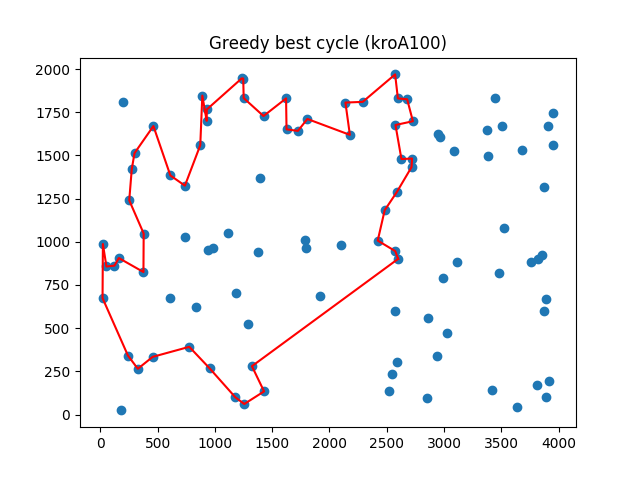
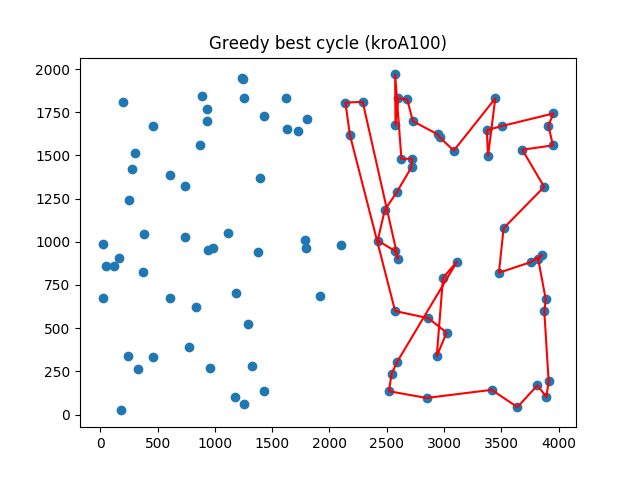
Fix confused greedy with nearest neighbor

diff --git a/aem/heuristics/greedy.py b/aem/heuristics/greedy.py
@@ -7,7 +7,21 @@ class Greedy(Heuristic):
 
     def build_cycle(self, start_vertex=0) -> list:
         cycle = [start_vertex]
+        next_vertex = self.graph.get_closest_unvisited_neighbor_idx(from_vertex=cycle[-1], visited=cycle)
+        cycle.append(next_vertex)
         while len(cycle) < 50:
-            next_closest = self.graph.get_closest_unvisited_neighbor_idx(from_vertex=cycle[-1], visited=cycle)
-            cycle.append(next_closest)
+            # for each vertex find two visited that are closest and compute cost
+            min_cost = float('inf')
+            min_cost_vertex_idx = None
+            for i in range(self.graph.no_of_vertices()):
+                if i not in cycle:
+                    first_closest = self.graph.get_closest_visited_idx(from_vertex=i, visited=cycle)
+                    tmp_cycle = [i for i in cycle if i != first_closest]
+                    second_closest = self.graph.get_closest_visited_idx(from_vertex=i, visited=tmp_cycle)
+
+                    insertion_cost = self.graph.cost(first_closest, i) + self.graph.cost(second_closest, i)
+                    if insertion_cost < min_cost:
+                        min_cost = insertion_cost
+                        min_cost_vertex_idx = i
+            cycle.append(min_cost_vertex_idx)
         return cycle

diff --git a/aem/shared/graph.py b/aem/shared/graph.py
@@ -20,6 +20,10 @@ class Graph:
         closest_idx = valid_indices[self.adjacency_matrix[from_vertex, :][valid_indices].argmin()]
         return closest_idx
 
+    def get_closest_visited_idx(self, from_vertex, visited):
+        closest_idx = visited[self.adjacency_matrix[from_vertex, :][visited].argmin()]
+        return closest_idx
+
     def no_of_vertices(self) -> int:
         return self.adjacency_matrix.shape[0]
 
@@ -30,3 +34,6 @@ class Graph:
             v2 = cycle[(i+1) % len(cycle)]
             cycle_length += self.adjacency_matrix[v1, v2]
         return cycle_length
+
+    def cost(self, from_vertex, to_vertex):
+        return self.adjacency_matrix[from_vertex, to_vertex]

diff --git a/main.py b/main.py
@@ -1,4 +1,5 @@
 from aem.utils.tsp_reader import TSPReader
+from aem.heuristics.nearest_neighbor import NearestNeighbor
 from aem.heuristics.greedy import Greedy
 from aem.utils.plot_util import PlotUtil
 
@@ -10,7 +11,7 @@ instances = [
 for instance in instances:
     print(f"Working on {instance}")
     graph, coords = TSPReader().read_graph_with_coords(instance)
-    methods = [Greedy(graph)]
+    methods = [NearestNeighbor(graph), Greedy(graph)]
     for method in methods:
         result = method.run()
         result.print()

diff --git a/aem/heuristics/nearest_neighbor.py b/aem/heuristics/nearest_neighbor.py
@@ -1,0 +1,13 @@
+from aem.heuristics.heuristic import Heuristic
+
+
+class NearestNeighbor(Heuristic):
+    def __init__(self, graph):
+        super().__init__(graph)
+
+    def build_cycle(self, start_vertex=0) -> list:
+        cycle = [start_vertex]
+        while len(cycle) < 50:
+            next_closest = self.graph.get_closest_unvisited_neighbor_idx(from_vertex=cycle[-1], visited=cycle)
+            cycle.append(next_closest)
+        return cycle

diff --git a/aem/heuristics/k_regret.py b/aem/heuristics/k_regret.py
@@ -2,8 +2,9 @@ from aem.heuristics.heuristic import Heuristic
 
 
 class KRegret(Heuristic):
-    def __init__(self, graph):
+    def __init__(self, graph, k=1):
         super().__init__(graph)
+        self.k = k
 
     def build_cycle(self, start_vertex=0) -> list:
         cycle = [start_vertex]
